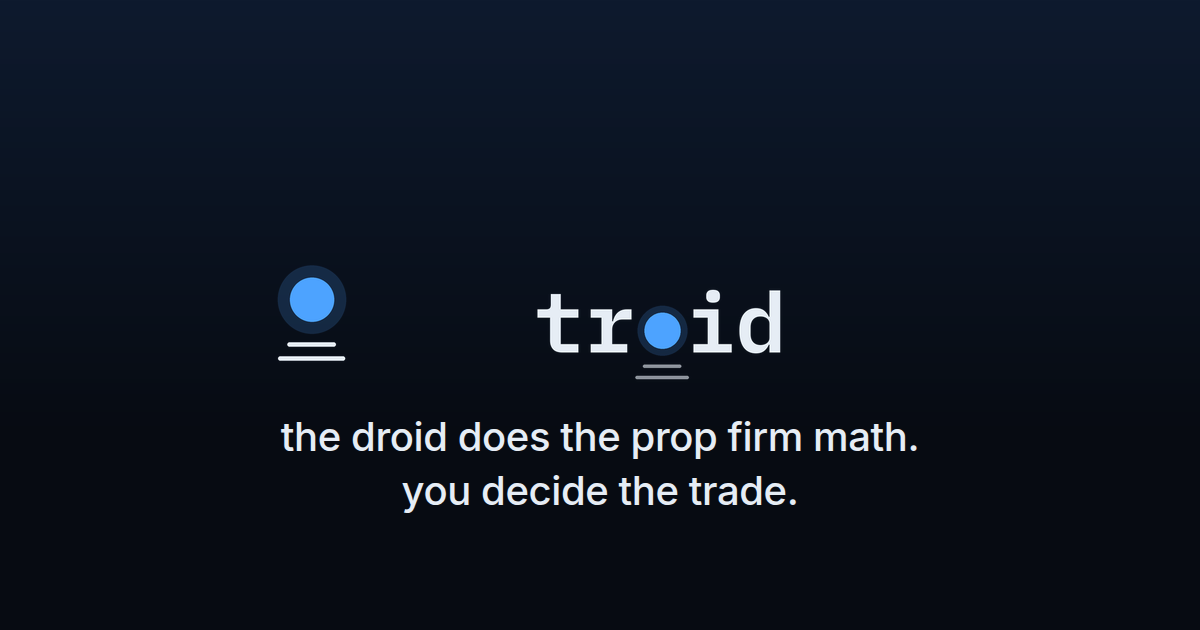
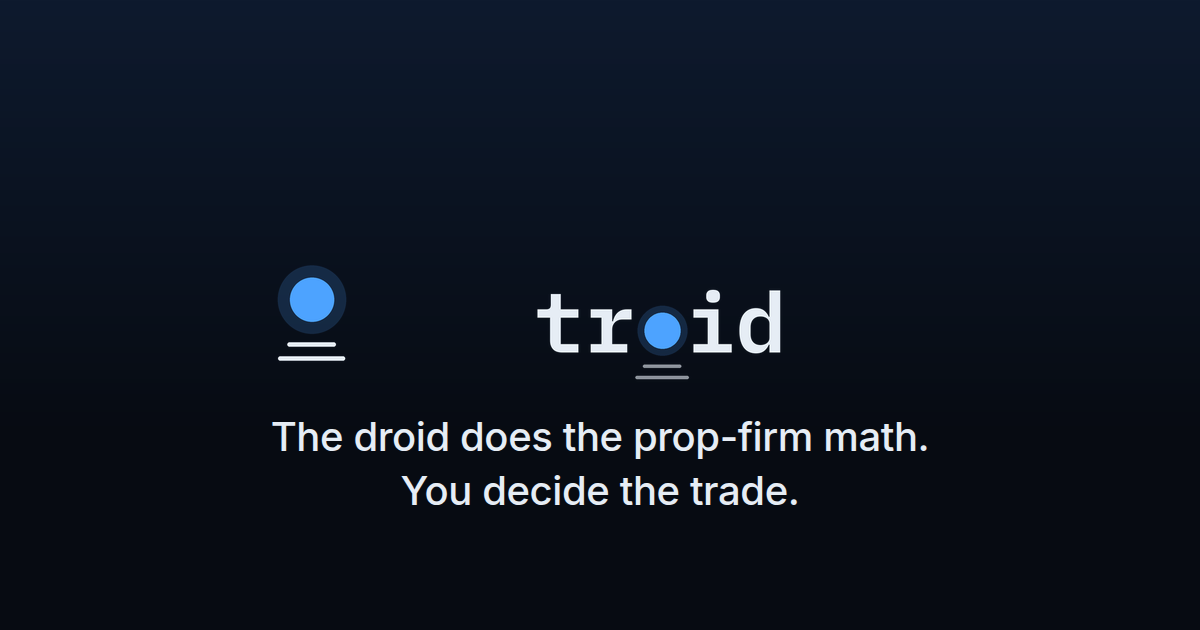
The line in proper grammar: "The droid does the prop-firm math. You decide the trade."
Capitalised sentences and the compound modifier hyphenated (the owner: "use proper grammar"), on the
home page, the share title and image, the X header and the Reddit banner (brand/tagline.py), BRAND.md
and the brand READMEs. The name stays lowercase, troid, as the brand sets it.

Claude-Session: https://claude.ai/code/session_01GViQ4SzihLu3EsS24D3sJT

Changed region(s): [[0.2158, 0.6635, 0.7708, 0.7238], [0.3392, 0.754, 0.6783, 0.8143]]

diff --git a/web/public/compare.html b/web/public/compare.html
@@ -120,7 +120,7 @@ nav a:hover{color:var(--ink)}
 .discl{font-family:var(--mono);font-size:10.5px;color:var(--dim);margin-top:13px;line-height:1.5}
 .hero{margin-bottom:38px}
 /* the line troid introduces itself with (BRAND.md), as the banners set it: under the wordmark, in the mono, dim */
-.tagline{font-family:var(--mono);font-size:13.5px;line-height:1.5;color:var(--dim);margin:0 0 14px;max-width:none}
+.tagline{font-family:var(--mono);font-size:15px;line-height:1.5;color:var(--dim);margin:0 0 14px;max-width:none}
 /* each sentence is a box, so a narrow screen breaks the line between them, never mid-sentence */
 .tagline span{display:inline-block;max-width:100%}
 /* the headline sits under the 32 px wordmark at every width: 24 px on a phone, 30 px from about 680 px up */
@@ -137,7 +137,7 @@ h1{font-size:clamp(24px,4.4vw,30px);line-height:1.08;letter-spacing:-.035em;
     scrollbar-width:none;white-space:nowrap;scroll-padding-inline:20px}
   nav::-webkit-scrollbar{display:none}nav>*{flex:none}nav a{position:relative}nav a::after{content:"";position:absolute;inset:-5px -9px}
   .hero{margin-bottom:24px}
-  .tagline{font-size:12.5px;margin-bottom:12px}
+  .tagline{font-size:13.5px;margin-bottom:12px}
 }
 .panel{background:var(--surface);border:1px solid var(--line);border-radius:4px;
   padding:22px;margin-bottom:14px}

diff --git a/web/public/index.html b/web/public/index.html
@@ -8,7 +8,7 @@
 <link rel="icon" href="/favicon.ico">
 <link rel="apple-touch-icon" href="/apple-touch-icon.png">
 <meta property="og:image" content="https://troid.ai/og/en.png">
-<meta property="og:title" content="troid — the droid does the prop firm math. you decide the trade.">
+<meta property="og:title" content="troid — the droid does the prop-firm math. You decide the trade.">
 <meta property="og:description" content="Size against both loss ceilings, net of fees. Free. Never places orders.">
 <meta name="twitter:card" content="summary_large_image">
 <link rel="preconnect" href="https://fonts.googleapis.com">
@@ -411,7 +411,7 @@ var m=matchMedia("(min-width:641px)");(m.addEventListener?m.addEventListener("ch
 <div class="wrap">
 
 <div class="hero">
-  <p class="tagline"><span>the droid does the prop firm math.</span> <span>you decide the trade.</span></p>
+  <p class="tagline"><span>The droid does the prop-firm math.</span> <span>You decide the trade.</span></p>
   <h1>Prop-firm risk, computed.</h1>
   <p class="lede">Most failed challenges end on a loss limit, not a missed target: 93.7% at
   <a href="/sources#onefunded_failures">one firm that publishes its own figures</a>, below. troid computes both of your

diff --git a/BRAND.md b/BRAND.md
@@ -12,9 +12,8 @@ Flat, precise, slightly dry. A ship's computer, not a coach. Never excited, neve
 exclamatory, never emoji. Where a number exists, lead with the number.
 
 The line, where troid introduces itself (share title and image, the X and Reddit banners, and the first line of the
-home page, above its headline, in the mono and dim as the banners set it): *"the droid does the
-prop firm math. you decide the trade."* (the owner's words, lowercase like the name, 2026-09-26; it was "The droid
-does the prop-firm math. You make the trade."). It says what the name means and where troid stops:
+home page, above its headline, in the mono and dim as the banners set it): *"The droid does the
+prop-firm math. You decide the trade."* (the owner's words, 2026-09-26; it was "You make the trade."). It says what the name means and where troid stops:
 troid computes, a person places the order.
 
 Every claim carries a tier — DERIVED, SOURCED, MODELLED, MEASURED — and a MEASURED

diff --git a/brand/README.md b/brand/README.md
@@ -7,7 +7,7 @@ Every file here carries the two floors: mark-*.png is the same drawing as mark-2
 (kept under both names so existing links still work); in the wordmark, lockup, preview and
 banners the wordmark's dot sits above its two floors at 60% ink, as in the site header. The X and Reddit
 banners (24 Sep 2026, the owner's set in social/) carry the wordmark alone, since it already holds the mark, then the
-line "the droid does the prop firm math. you decide the trade." and troid.ai; social/README.md says where each goes.
+line "The droid does the prop-firm math. You decide the trade." and troid.ai; social/README.md says where each goes.
 The line is drawn from the site's own text (og.tagline) by tagline.py, which redraws only its strip.
 
 Wordmark: troid in IBM Plex Mono SemiBold with the o replaced by the dot, above its two

diff --git a/brand/social/README.md b/brand/social/README.md
@@ -9,7 +9,7 @@
 | x-launch-card-1600x900.png | image on the first post of the launch thread |
 
 Banners use the wordmark only (it already carries the mark), the line
-"the droid does the prop firm math. you decide the trade." and troid.ai (redrawn 26 Sep 2026 by
+"The droid does the prop-firm math. You decide the trade." and troid.ai (redrawn 26 Sep 2026 by
 ../tagline.py from the site's og.tagline; replace both on X and Reddit when it changes).
 X header content sits inside y 90–410 and clear of the avatar's bottom-left overlap.
 Wordmark and mark are the unmodified brand/ files; tagline in IBM Plex Mono Regular (../PlexMono-Regular.ttf), 27 px on
